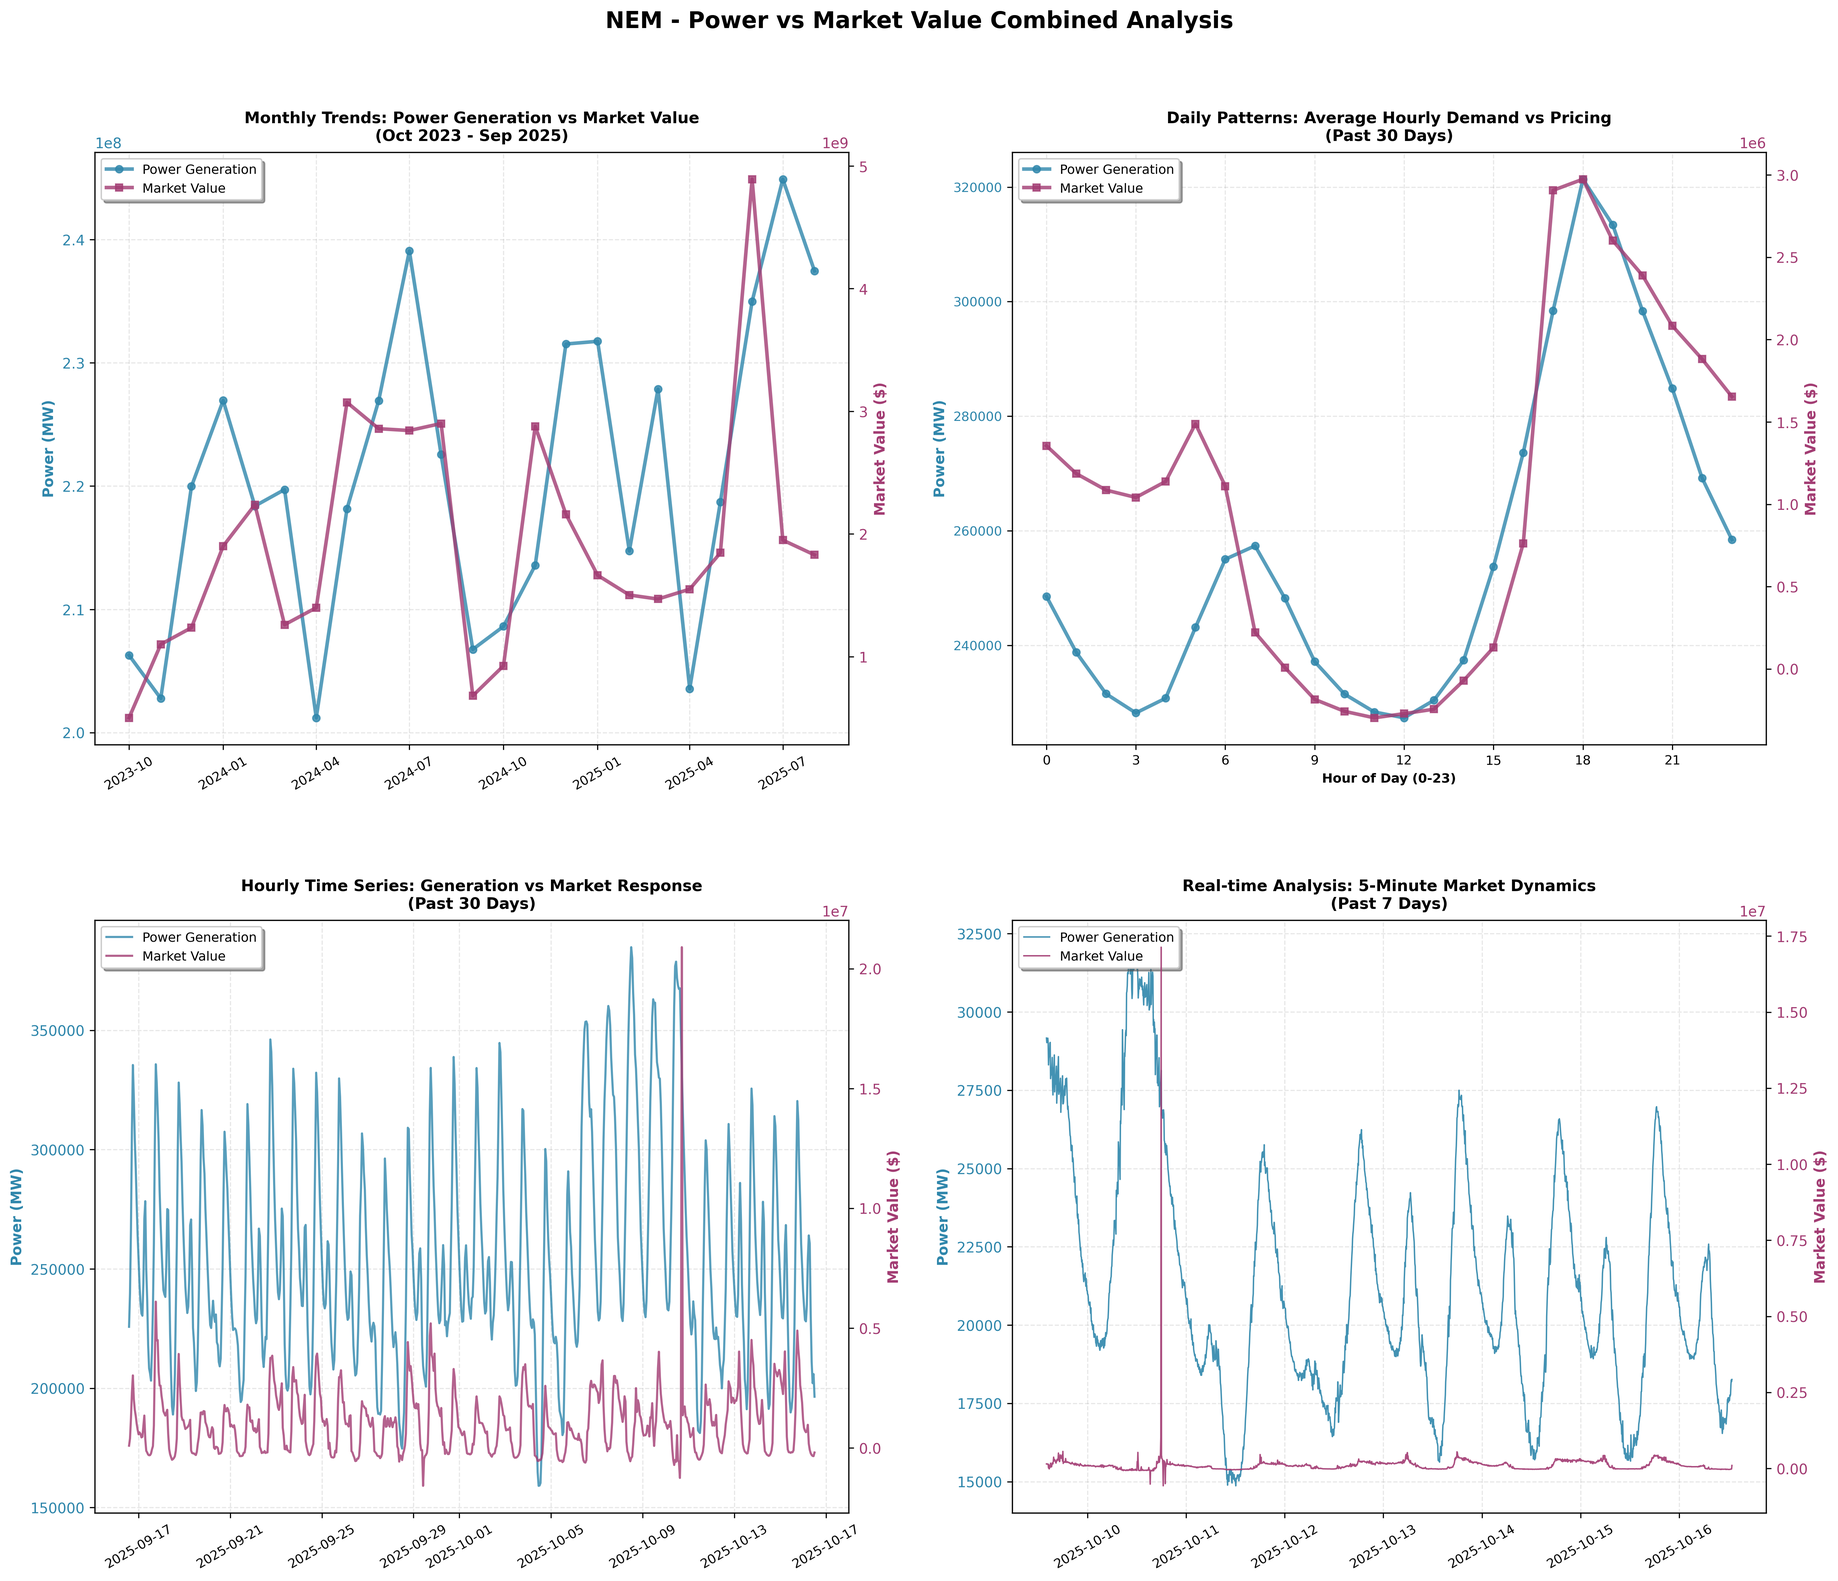
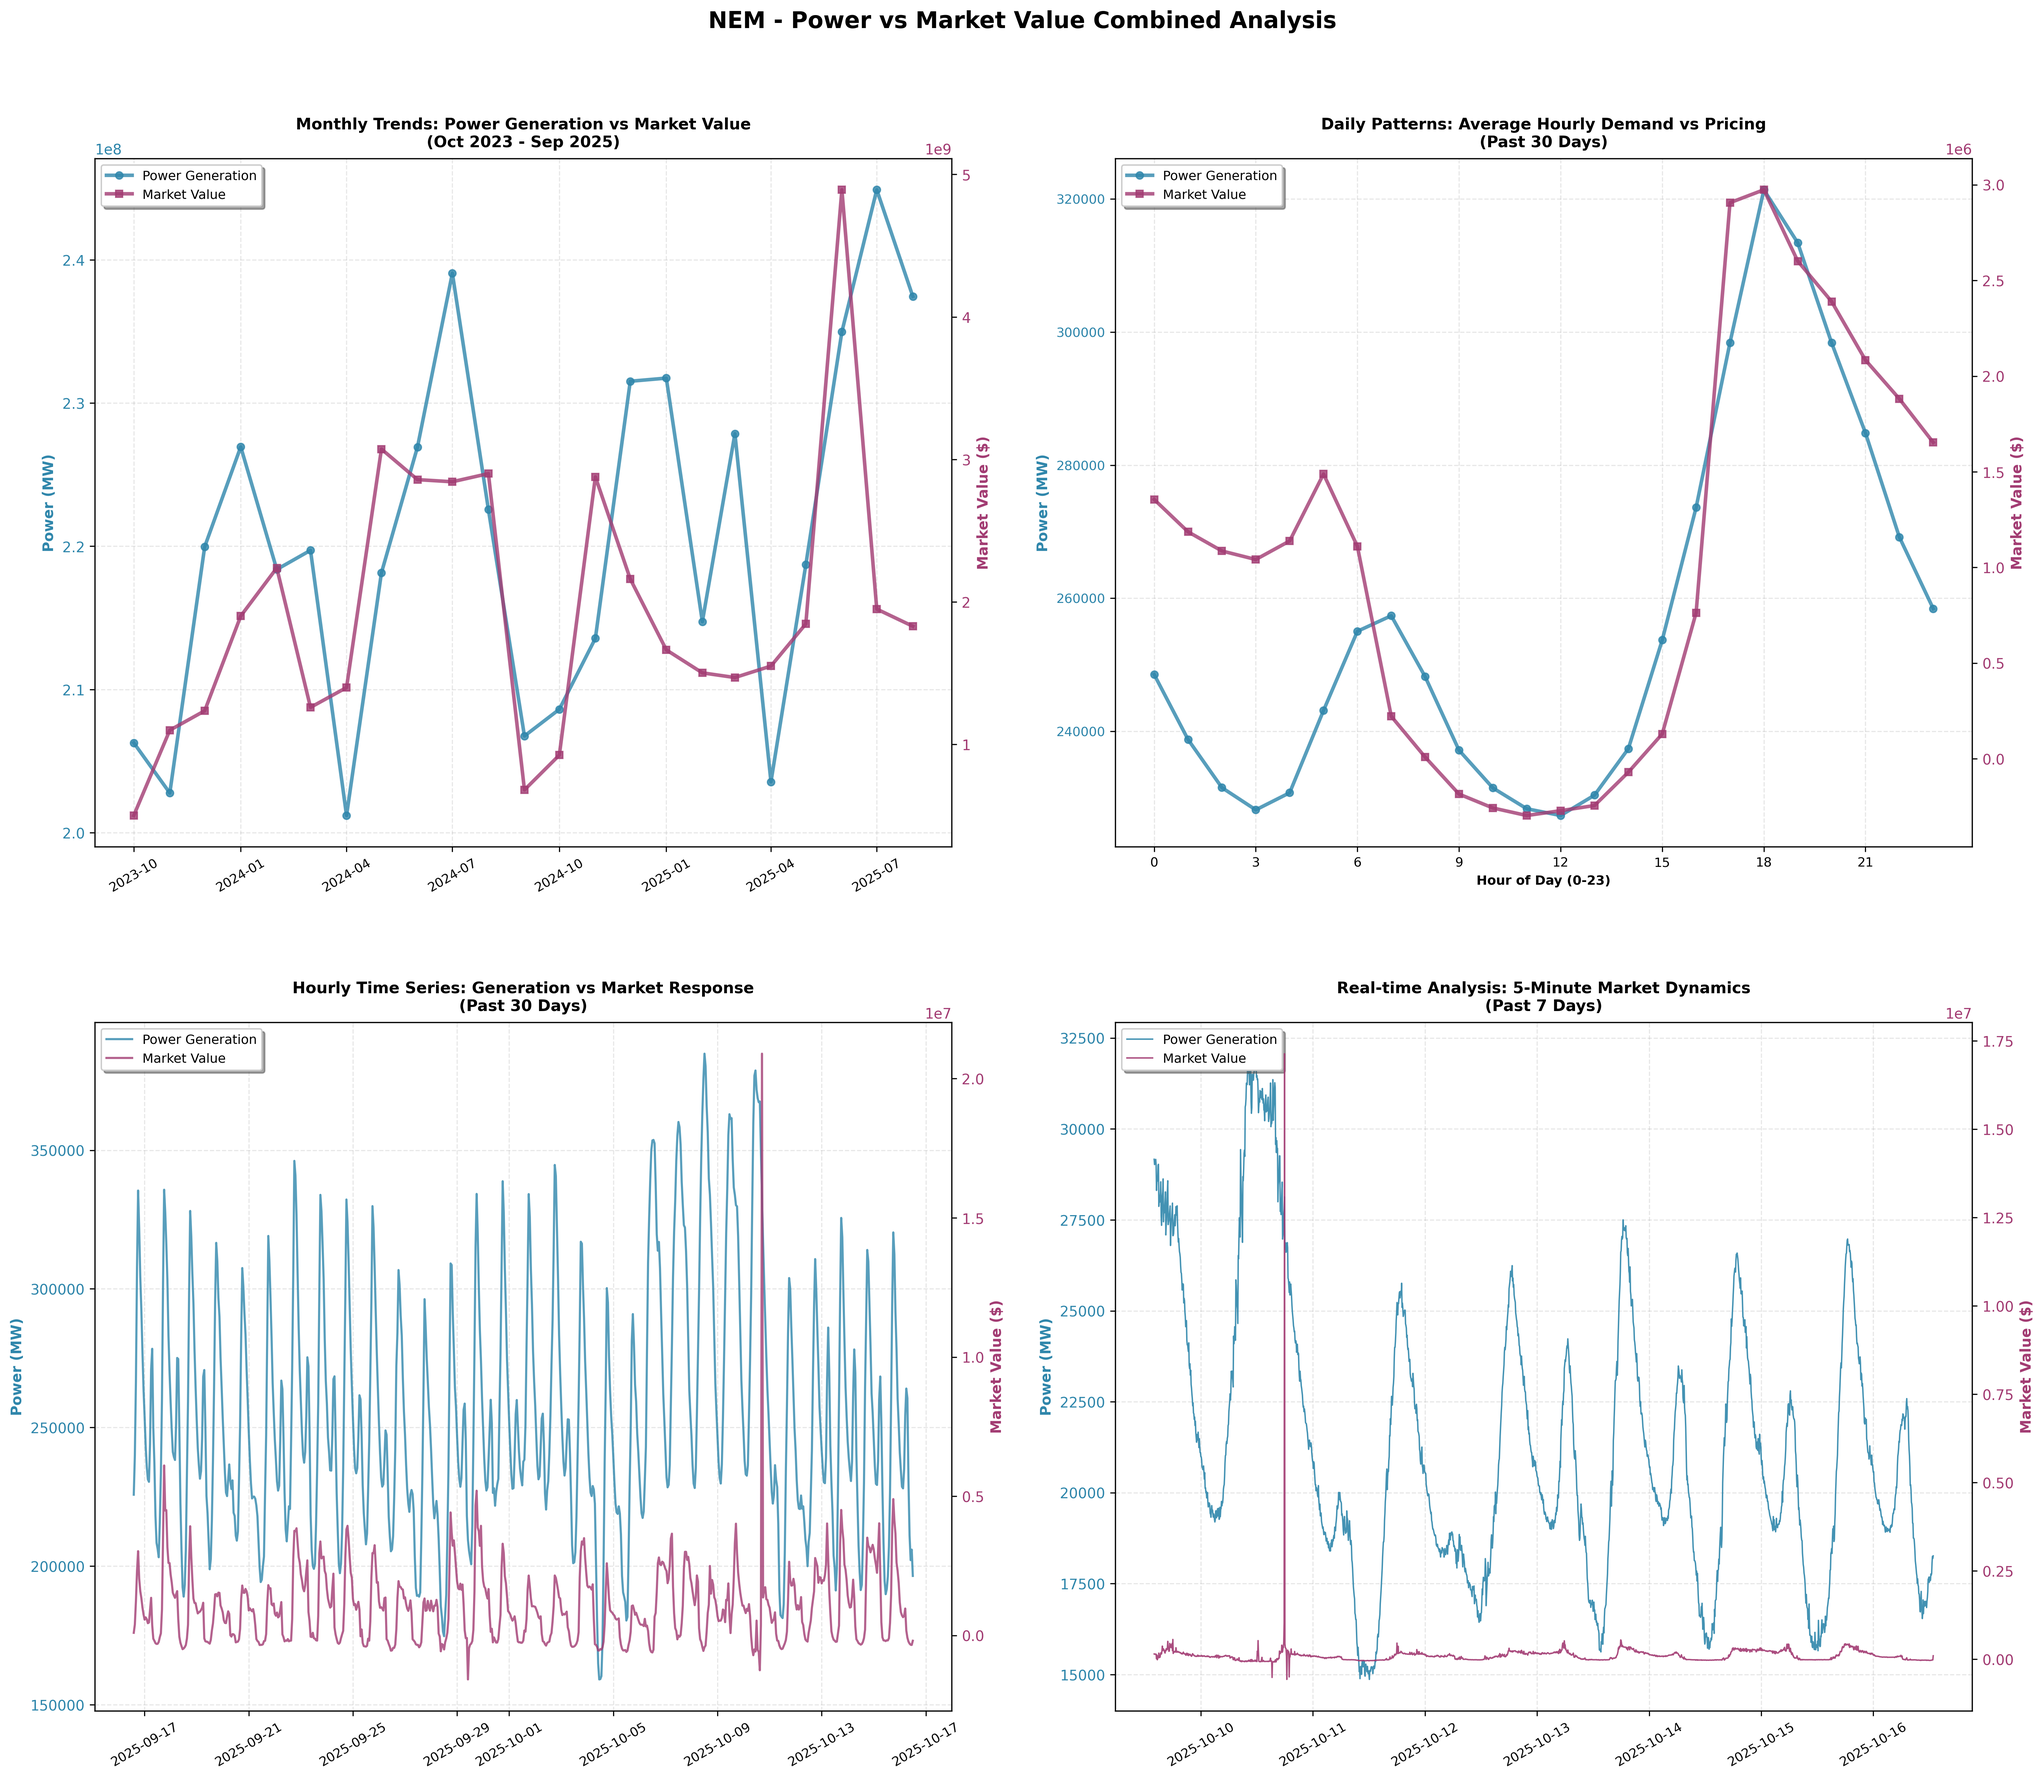
Increase dashboard and chart size for better visibility

diff --git a/docs/index.html b/docs/index.html
@@ -5,12 +5,12 @@
     <meta name="viewport" content="width=device-width, initial-scale=1.0">
     <title>Australian Energy Analytics Dashboard</title>
     <style>
-        body { font-family: Arial, sans-serif; margin: 40px; background: #f5f5f5; }
-        .container { max-width: 1200px; margin: 0 auto; background: white; padding: 30px; border-radius: 10px; box-shadow: 0 4px 6px rgba(0,0,0,0.1); }
+        body { font-family: Arial, sans-serif; margin: 20px; background: #f5f5f5; }
+        .container { max-width: 1400px; margin: 0 auto; background: white; padding: 40px; border-radius: 10px; box-shadow: 0 4px 6px rgba(0,0,0,0.1); }
         h1 { color: #2E86AB; text-align: center; margin-bottom: 30px; }
-        .analytics-grid { display: flex; justify-content: center; margin-bottom: 30px; }
-        .analytics-item { text-align: center; max-width: 800px; }
-        .analytics-item img { max-width: 100%; height: auto; border: 1px solid #ddd; border-radius: 8px; box-shadow: 0 2px 4px rgba(0,0,0,0.1); }
+        .analytics-grid { display: flex; flex-direction: column; align-items: center; gap: 40px; margin-bottom: 30px; }
+        .analytics-item { text-align: center; max-width: 1300px; width: 100%; }
+        .analytics-item img { width: 100%; height: auto; border: 1px solid #ddd; border-radius: 8px; box-shadow: 0 2px 4px rgba(0,0,0,0.1); }
         .analytics-item h3 { color: #A23B72; margin: 15px 0 10px 0; font-size: 1.5em; }
         .analytics-item p { margin-top: 15px; }
         .analytics-item a { color: #2E86AB; text-decoration: none; font-weight: bold; }

diff --git a/App/src/analytics.py b/App/src/analytics.py
@@ -38,7 +38,7 @@ class DualMetricAnalytics:
         print("📊 Creating combined visualizations...")
         print("   └─ Generating dual-axis line plots...")
         
-        fig = plt.figure(figsize=(18, 16))  # Increased height further
+        fig = plt.figure(figsize=(20, 18))  # Even larger for better visibility
         fig.suptitle(f'{self.network} - Power vs Market Value Combined Analysis', 
                     fontsize=16, fontweight='bold', y=0.98)  # Adjusted title position
         
